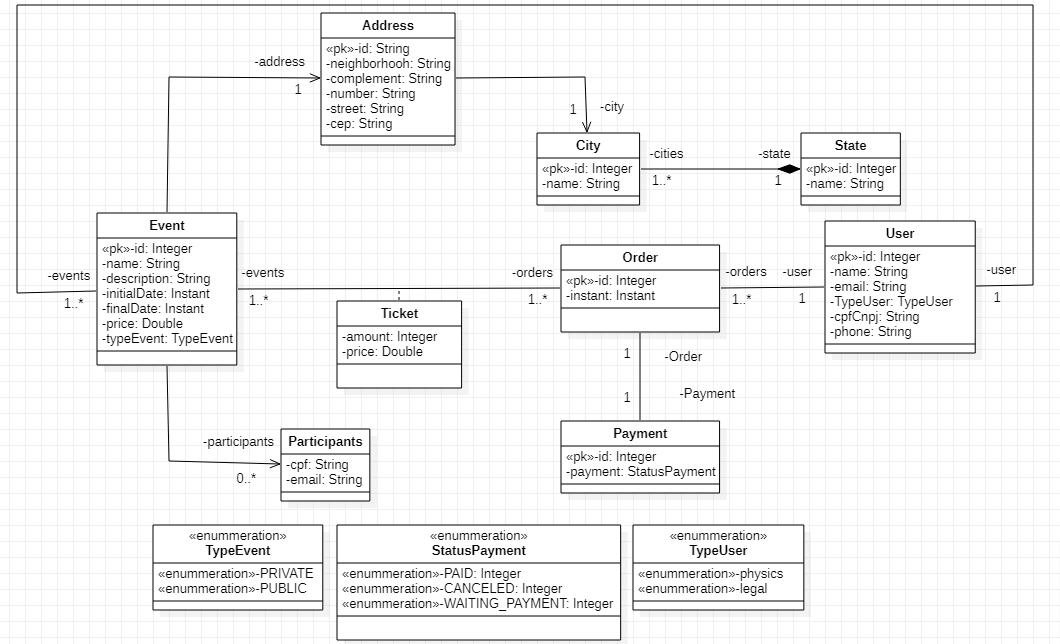
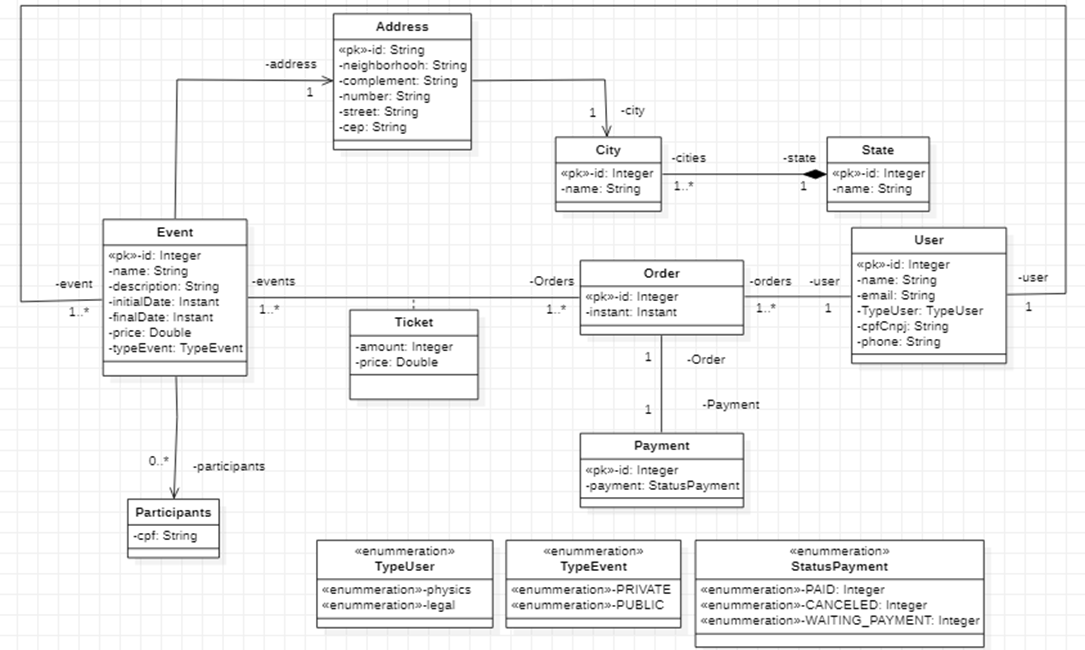
Modificações para o Mobile

diff --git a/src/main/java/com/talissonmelo/projectevent/services/EventService.java b/src/main/java/com/talissonmelo/projectevent/services/EventService.java
@@ -1,5 +1,6 @@
 package com.talissonmelo.projectevent.services;
 
+import java.util.ArrayList;
 import java.util.Arrays;
 import java.util.List;
 import java.util.Optional;
@@ -22,6 +23,7 @@ import com.talissonmelo.projectevent.domain.User;
 import com.talissonmelo.projectevent.dto.EventDTO;
 import com.talissonmelo.projectevent.dto.EventNewDTO;
 import com.talissonmelo.projectevent.dto.EventViewDTO;
+import com.talissonmelo.projectevent.dto.UserEventDTO;
 import com.talissonmelo.projectevent.repositories.AddressRepository;
 import com.talissonmelo.projectevent.repositories.EventRepository;
 import com.talissonmelo.projectevent.services.exceptions.DataBaseException;
@@ -49,6 +51,10 @@ public class EventService {
 
 		List<Event> list = eventRepository.findAll(example);
 		return list;
+	}
+
+	public List<Event> findAll() {
+		return eventRepository.findAll();
 	}
 
 	public Event findById(Integer id) {
@@ -111,7 +117,7 @@ public class EventService {
 	public Event fromDTO(EventNewDTO objDTO) {
 
 		User user = userService.findById(objDTO.getUser());
-		
+
 		City city = cityService.findById(objDTO.getCidadeId());
 
 		Address address = new Address();
@@ -122,7 +128,6 @@ public class EventService {
 		address.setNumber(objDTO.getNumber());
 		address.setCep(objDTO.getCep());
 		address.setCity(city);
-		
 
 		Event obj = new Event();
 		obj.setId(null);
@@ -135,22 +140,22 @@ public class EventService {
 		obj.setAddress(address);
 
 		if (objDTO.getParticipants() != null) {
-			
+
 			String[] fields = objDTO.getParticipants().split(" ");
-			for(String x: fields) {
-			obj.getParticipants().add(x);
+			for (String x : fields) {
+				obj.getParticipants().add(x);
 			}
 		}
-		
+
 		obj.setUser(user);
 		user.getEvents().addAll(Arrays.asList(obj));
-		
+
 		return obj;
 	}
 
 	public EventViewDTO toView(Event event) {
 		EventViewDTO dto = new EventViewDTO();
-		
+
 		dto.setId(event.getId());
 		dto.setName(event.getName());
 		dto.setDescription(event.getDescription());
@@ -164,7 +169,27 @@ public class EventService {
 		dto.setNumber(event.getAddress().getNumber());
 		dto.setCep(event.getAddress().getCep());
 		dto.setCidadeId(event.getAddress().getCity().getId());
-		
+
 		return dto;
+	}
+
+	public List<UserEventDTO> toUserEventDTO(List<Event> list) {
+		List<UserEventDTO> listDTO = new ArrayList<>();
+		
+		for(Event event : list) {
+			UserEventDTO dto = new UserEventDTO();
+			dto.setUser(event.getUser().getName());
+			dto.setEmail(event.getUser().getEmail());
+			dto.setPhone(event.getUser().getPhone());
+			dto.setNameEvent(event.getName());
+			dto.setInitialData(event.getInitialData());
+			dto.setFinalData(event.getFinalData());
+			dto.setPrice(event.getPrice());
+			
+			listDTO.add(dto);
+		}
+		
+		return listDTO;
+		
 	}
 }

diff --git a/src/main/java/com/talissonmelo/projectevent/dto/UserEventDTO.java b/src/main/java/com/talissonmelo/projectevent/dto/UserEventDTO.java
@@ -1,0 +1,93 @@
+package com.talissonmelo.projectevent.dto;
+
+import java.util.Date;
+
+import com.fasterxml.jackson.annotation.JsonFormat;
+
+public class UserEventDTO {
+
+	private String user;
+	private String email;
+	private String phone;
+	private String nameEvent;
+	
+	@JsonFormat(pattern = "dd/MM/yyyy HH:mm:ss", timezone = "America/Sao_Paulo")
+	private Date initialData;
+
+	@JsonFormat(pattern = "dd/MM/yyyy HH:mm:ss", timezone = "America/Sao_Paulo")
+	private Date finalData;
+
+	private Double price;
+	
+	public UserEventDTO() {
+		
+	}
+
+	public UserEventDTO(String user, String email, String phone, String nameEvent, Date initialData, Date finalData,
+			Double price) {
+		super();
+		this.user = user;
+		this.email = email;
+		this.phone = phone;
+		this.nameEvent = nameEvent;
+		this.initialData = initialData;
+		this.finalData = finalData;
+		this.price = price;
+	}
+
+	public String getUser() {
+		return user;
+	}
+
+	public void setUser(String user) {
+		this.user = user;
+	}
+
+	public String getEmail() {
+		return email;
+	}
+
+	public void setEmail(String email) {
+		this.email = email;
+	}
+
+	public String getPhone() {
+		return phone;
+	}
+
+	public void setPhone(String phone) {
+		this.phone = phone;
+	}
+
+	public String getNameEvent() {
+		return nameEvent;
+	}
+
+	public void setNameEvent(String nameEvent) {
+		this.nameEvent = nameEvent;
+	}
+
+	public Date getInitialData() {
+		return initialData;
+	}
+
+	public void setInitialData(Date initialData) {
+		this.initialData = initialData;
+	}
+
+	public Date getFinalData() {
+		return finalData;
+	}
+
+	public void setFinalData(Date finalData) {
+		this.finalData = finalData;
+	}
+
+	public Double getPrice() {
+		return price;
+	}
+
+	public void setPrice(Double price) {
+		this.price = price;
+	}
+}

diff --git a/src/main/java/com/talissonmelo/projectevent/services/DBService.java b/src/main/java/com/talissonmelo/projectevent/services/DBService.java
@@ -59,8 +59,8 @@ public class DBService {
 		
 		SimpleDateFormat sdf = new SimpleDateFormat("dd/MM/yyyy HH:mm");
 
-		User user1 = new User(null, "Talisson Melo", "talisson.cursos@gmail.com", UserType.PHYSICS, "12345678","3242-3414", "123456");
-		User user2 = new User(null, "Tales", "tales.cursos@gmail.com", UserType.LEGAL, "12345008", "3242-3415", "123456");
+		User user1 = new User(null, "Patrick", "patrickferdinan@gmail.com", UserType.PHYSICS, "12345678","5534991136428", "123456");
+		User user2 = new User(null, "Talisson", "talisson.cursos@gmail.com", UserType.LEGAL, "12345008", "992319208", "123456");
 
 		State st1 = new State(null, "Minas Gerais");
 		State st2 = new State(null, "São Paulo");
@@ -83,7 +83,7 @@ public class DBService {
 		Event ev1 = new Event(null, "Apresentação Pi", "Apresentação dos Trabalhos de término de período.",
 				sdf.parse("01/06/2020 19:15:00"), sdf.parse("01/06/2020 22:40:00"), 50.00, EventType.PUBLIC ,ad1, user1);
 		Event ev2 = new Event(null, "Bienal de ideias", "Apresentação dos Trabalhos", sdf.parse("01/08/2020 19:15:00"),
-				sdf.parse("01/08/2020 22:40:00"), 80.00, EventType.PRIVATE, ad1, user2);
+				sdf.parse("01/08/2020 22:40:00"), 80.00, EventType.PUBLIC, ad1, user2);
 		
 		ev2.getParticipants().addAll(Arrays.asList("123.123.123-12","113.123.123-12","133.123.123-12","143.123.123-12","153.123.123-12"));
 

diff --git a/src/main/java/com/talissonmelo/projectevent/resources/EventResource.java b/src/main/java/com/talissonmelo/projectevent/resources/EventResource.java
@@ -22,6 +22,7 @@ import com.talissonmelo.projectevent.domain.Event;
 import com.talissonmelo.projectevent.dto.EventDTO;
 import com.talissonmelo.projectevent.dto.EventNewDTO;
 import com.talissonmelo.projectevent.dto.EventViewDTO;
+import com.talissonmelo.projectevent.dto.UserEventDTO;
 import com.talissonmelo.projectevent.services.EventService;
 
 @RestController
@@ -70,4 +71,12 @@ public class EventResource {
 		Event entity = eventService.update(id, obj);
 		return ResponseEntity.ok().body(entity);
 	}
+	
+	@GetMapping(value = "/users")
+	public ResponseEntity<List<UserEventDTO>> findUserEvent(){
+		List<Event> list = eventService.findAll();
+		List<UserEventDTO> listDTO = eventService.toUserEventDTO(list);
+		return ResponseEntity.ok().body(listDTO);
+	}
+
 }

diff --git a/src/main/java/com/talissonmelo/projectevent/config/TestConfig.java b/src/main/java/com/talissonmelo/projectevent/config/TestConfig.java
@@ -17,13 +17,13 @@ public class TestConfig {
 
 	@Autowired
 	private DBService dbService;
-	
+
 	@Bean
 	public boolean instantiateDataBase() throws ParseException {
 		dbService.instantiateTestDataBase();
 		return true;
 	}
-	
+
 	@Bean
 	public EmailService emailService() {
 		return new MockEmailService();

diff --git a/src/main/java/com/talissonmelo/projectevent/resources/UserResource.java b/src/main/java/com/talissonmelo/projectevent/resources/UserResource.java
@@ -75,4 +75,5 @@ public class UserResource {
 		User entity = userService.update(id, obj);
 		return ResponseEntity.ok().body(entity);
 	}
+	
 }

diff --git a/README.md b/README.md
@@ -3,6 +3,8 @@
 ### Descrição do projeto
 
 Este projeto tem como objetivo demonstrar a aplicabilidade das seguintes tecnologias: Spring boot, Spring Rest, Spring data JPA, Spring MVC entre outros projetos do ecossistema Spring.
+![mc2](https://github.com/TalissonMelo/project-event-backend/blob/master/mc2.png)
+
 
 ## Modelo Conceitual
 ![mc](https://github.com/TalissonMelo/project-event-backend/blob/master/mc.png)
